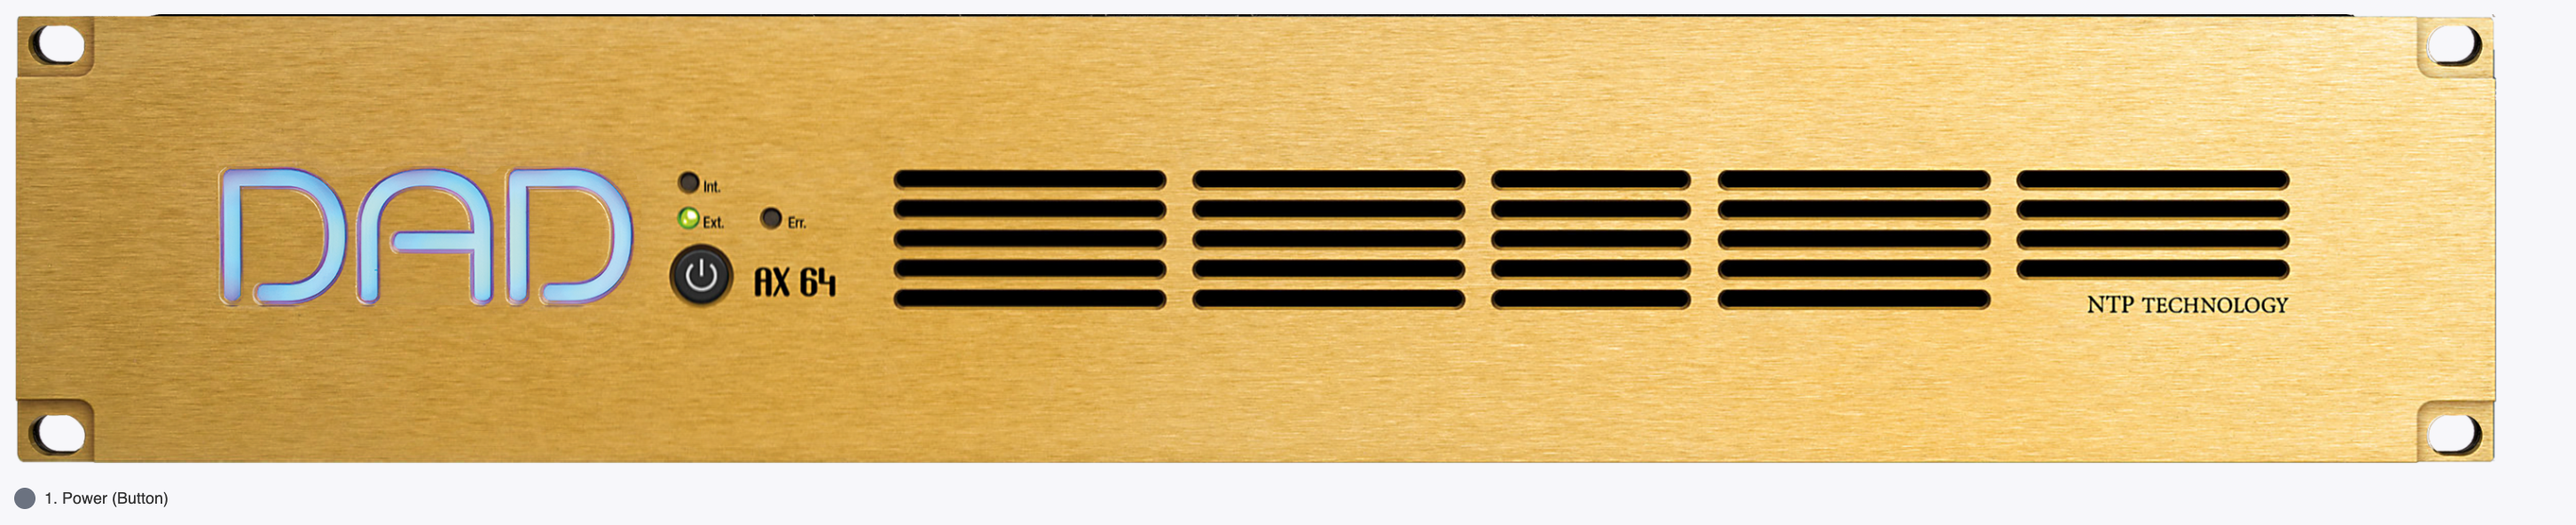
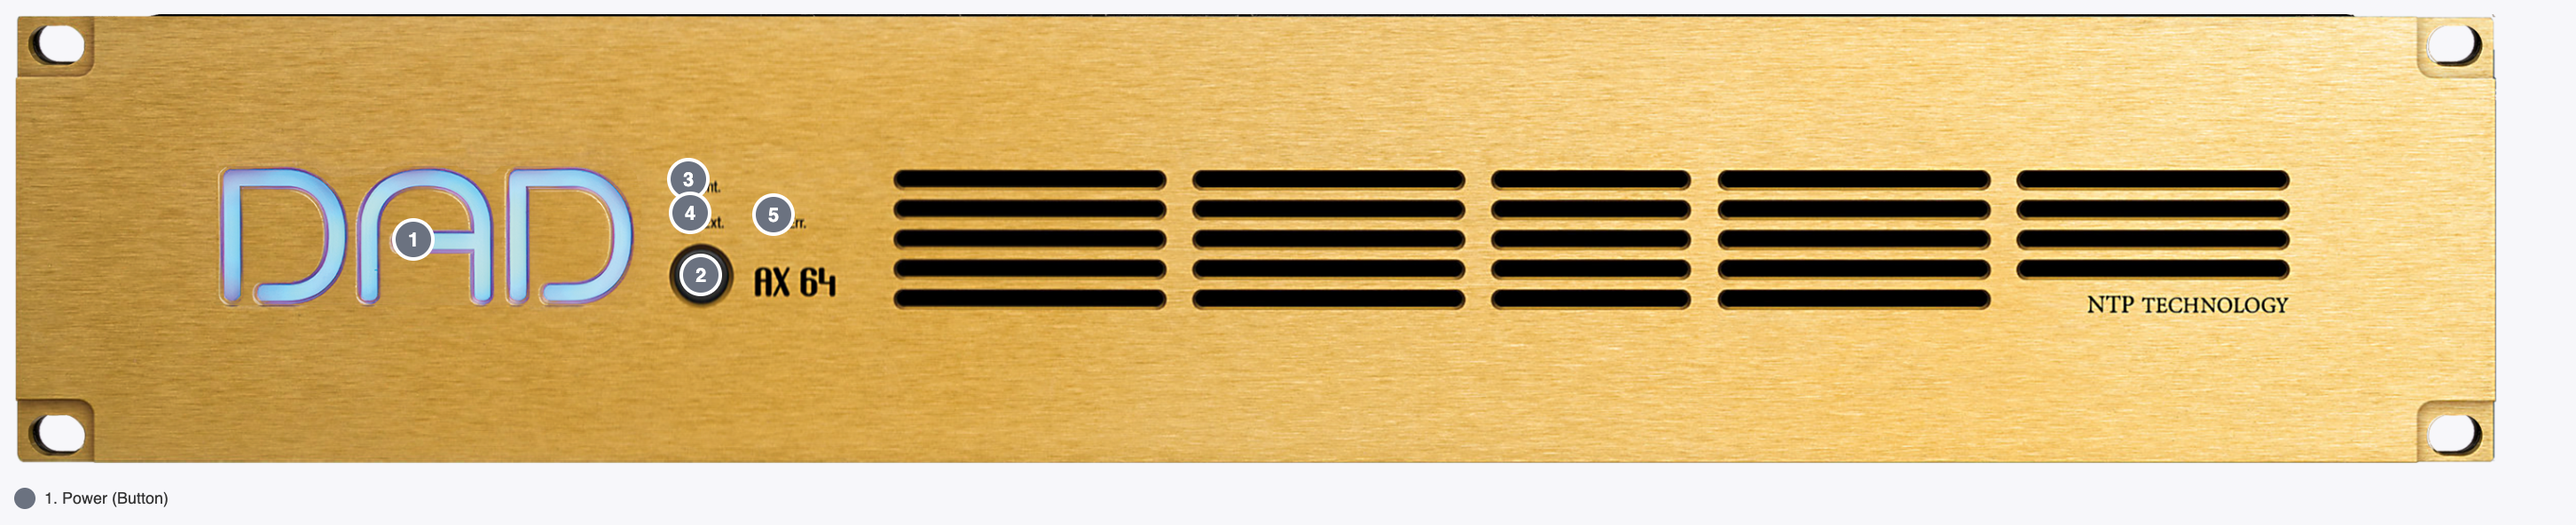
ch02: add missing callout circles to all 4 front panels
Add numbered callout circles for elements previously missing from
the panel diagrams:

- AX Center front (Frame): refs 1 (DAD logo), 3 (Int LED),
  4 (Ext LED), 5 (Err LED), 7 (P48 LED), 8 (Mic LED), 9 (Inst LED)
- AX64 front: refs 1 (DAD logo), 2 (Power btn), 3 (Int LED),
  4 (Ext LED), 5 (Err LED)
- Core 256 front: refs 1 (DAD logo), 2 (Power btn), 3 (Int LED),
  4 (Ext LED), 5 (Err LED)
- MOM face: refs 8 (Status LEDs 1-4), 9 (Stat. LED single)

Positions determined via panel-coords.html coordinate picker tool
(also added). All new circles use grey (#6B7280) matching Dot=— in
ch02 reference tables. Regenerated with screenshot-panels.mjs.

Changed region(s): [[0.2479, 0.3041, 0.3099, 0.4561], [0.2479, 0.4865, 0.2789, 0.5777], [0.155, 0.4257, 0.186, 0.4865]]

diff --git a/dadman-docs/static/img/panel-coords.html b/dadman-docs/static/img/panel-coords.html
@@ -1,0 +1,166 @@
+<!DOCTYPE html>
+<html lang="en">
+<head>
+<meta charset="UTF-8">
+<title>Panel Coordinate Picker</title>
+<style>
+  * { box-sizing: border-box; margin: 0; padding: 0; }
+  body { background: #1a1a2e; color: #e0e0e0; font-family: monospace; font-size: 13px; }
+  h1 { padding: 12px 16px; background: #16213e; font-size: 15px; color: #7eb8f7; border-bottom: 1px solid #2d4a7a; }
+  .tabs { display: flex; background: #16213e; border-bottom: 1px solid #2d4a7a; }
+  .tab { padding: 8px 18px; cursor: pointer; border-right: 1px solid #2d4a7a; color: #aaa; }
+  .tab.active { background: #0f3460; color: #fff; font-weight: bold; }
+  .panel-wrap { overflow-x: auto; padding: 16px; }
+  .panel-label { color: #7eb8f7; margin-bottom: 8px; font-size: 12px; }
+  .img-container { position: relative; display: inline-block; cursor: crosshair; }
+  .img-container img { display: block; image-rendering: pixelated; }
+  .dot { position: absolute; width: 20px; height: 20px; border-radius: 50%;
+    background: rgba(255,80,80,0.85); border: 2px solid #fff;
+    display: flex; align-items: center; justify-content: center;
+    font-size: 10px; font-weight: bold; color: #fff;
+    transform: translate(-50%, -50%); pointer-events: none; }
+  .sidebar { position: fixed; top: 0; right: 0; width: 280px; height: 100vh;
+    background: #16213e; border-left: 1px solid #2d4a7a; padding: 12px;
+    overflow-y: auto; }
+  .sidebar h2 { font-size: 13px; color: #7eb8f7; margin-bottom: 10px; }
+  .coord-list { list-style: none; }
+  .coord-list li { padding: 4px 6px; border-bottom: 1px solid #2d4a7a; font-size: 12px; }
+  .coord-list li span.num { color: #f7b731; margin-right: 6px; }
+  .coord-list li span.pos { color: #26de81; }
+  .coord-list li span.tag { color: #fd9644; }
+  .btn { display: inline-block; padding: 5px 12px; background: #c0392b;
+    color: #fff; border: none; border-radius: 3px; cursor: pointer; margin-top: 8px; font-size: 12px; }
+  .btn.green { background: #27ae60; }
+  #coords-text { width: 100%; background: #0f1923; color: #26de81; border: 1px solid #2d4a7a;
+    padding: 8px; font-size: 11px; margin-top: 8px; resize: vertical; height: 220px; }
+  .hint { font-size: 11px; color: #888; margin-top: 6px; }
+  .panel-section { display: none; }
+  .panel-section.active { display: block; }
+  body { margin-right: 290px; }
+</style>
+</head>
+<body>
+<h1>🎯 Panel Coordinate Picker — click any element to record its CSS position</h1>
+
+<div class="tabs">
+  <div class="tab active" onclick="showPanel('ax64')">AX64</div>
+  <div class="tab" onclick="showPanel('core256')">Core 256</div>
+  <div class="tab" onclick="showPanel('axcenter')">AX Center</div>
+  <div class="tab" onclick="showPanel('mom')">MOM</div>
+</div>
+
+<div class="panel-section active" id="sec-ax64">
+  <div class="panel-wrap">
+    <div class="panel-label">AX64 Front — CSS 1400×254 (image displayed at 50% scale = 1px = 1 CSS px). Click: DAD logo (1), Power btn (2), Int LED (3), Ext LED (4), Err LED (5)</div>
+    <div class="img-container" id="img-ax64" onclick="recordClick(event,'ax64')">
+      <img src="panel-ax64-front.png" style="width:1400px;height:254px;" id="img-ax64-el">
+    </div>
+  </div>
+</div>
+
+<div class="panel-section" id="sec-core256">
+  <div class="panel-wrap">
+    <div class="panel-label">Core 256 Front — CSS 700×143 (image displayed at 50% scale). Click: DAD logo (1), Power btn (2), Int LED (3), Ext LED (4), Err LED (5)</div>
+    <div class="img-container" id="img-core256" onclick="recordClick(event,'core256')">
+      <img src="panel-core256-front.png" style="width:700px;height:143px;" id="img-core256-el">
+    </div>
+  </div>
+</div>
+
+<div class="panel-section" id="sec-axcenter">
+  <div class="panel-wrap">
+    <div class="panel-label">AX Center Front — CSS 1416×166 (image displayed at 50% scale). Click: DAD logo (1), Int LED (3), Ext LED (4), Err LED (5), P48 LED (7), Mic LED (8), Inst LED (9)</div>
+    <div class="img-container" id="img-axcenter" onclick="recordClick(event,'axcenter')">
+      <img src="panel-ax-center-front.png" style="width:1416px;height:166px;" id="img-axcenter-el">
+    </div>
+  </div>
+</div>
+
+<div class="panel-section" id="sec-mom">
+  <div class="panel-wrap">
+    <div class="panel-label">MOM Front — CSS 800×412 (image displayed at 50% scale). Click: Status LEDs 1–4 group center (8), Stat. LED single (9)</div>
+    <div class="img-container" id="img-mom" onclick="recordClick(event,'mom')">
+      <img src="panel-mom.png" style="width:800px;height:412px;" id="img-mom-el">
+    </div>
+  </div>
+</div>
+
+<div class="sidebar">
+  <h2>Recorded Clicks</h2>
+  <ul class="coord-list" id="coord-list"></ul>
+  <button class="btn" onclick="undoLast()">↩ Undo last</button>
+  <button class="btn" onclick="clearAll()">✕ Clear all</button>
+  <button class="btn green" onclick="copyText()">📋 Copy output</button>
+  <p class="hint">Click elements on the panels in order. CSS coords appear here. Copy when done.</p>
+  <textarea id="coords-text" readonly placeholder="Coordinates will appear here..."></textarea>
+</div>
+
+<script>
+const clicks = [];
+
+function showPanel(id) {
+  document.querySelectorAll('.panel-section').forEach(s => s.classList.remove('active'));
+  document.querySelectorAll('.tab').forEach(t => t.classList.remove('active'));
+  document.getElementById('sec-' + id).classList.add('active');
+  event.target.classList.add('active');
+}
+
+function recordClick(e, panelId) {
+  const rect = e.currentTarget.getBoundingClientRect();
+  // The image is displayed at 50% scale (CSS width = image pixel width / 2)
+  // So clientX - rect.left directly gives CSS coordinates
+  const cssx = Math.round(e.clientX - rect.left);
+  const cssy = Math.round(e.clientY - rect.top);
+  const n = clicks.length + 1;
+
+  clicks.push({ panel: panelId, x: cssx, y: cssy, n });
+
+  // Draw dot on image
+  const container = e.currentTarget;
+  const dot = document.createElement('div');
+  dot.className = 'dot';
+  dot.style.left = cssx + 'px';
+  dot.style.top = cssy + 'px';
+  dot.textContent = n;
+  dot.id = 'dot-' + n;
+  container.appendChild(dot);
+
+  updateList();
+}
+
+function updateList() {
+  const list = document.getElementById('coord-list');
+  list.innerHTML = '';
+  const lines = [];
+  clicks.forEach(c => {
+    const li = document.createElement('li');
+    li.innerHTML = `<span class="num">#${c.n}</span><span class="tag">[${c.panel}]</span> <span class="pos">css=(${c.x}, ${c.y})</span>`;
+    list.appendChild(li);
+    lines.push(`#${c.n} [${c.panel}] css=(${c.x}, ${c.y})`);
+  });
+  document.getElementById('coords-text').value = lines.join('\n');
+}
+
+function undoLast() {
+  if (!clicks.length) return;
+  const last = clicks.pop();
+  const dot = document.getElementById('dot-' + last.n);
+  if (dot) dot.remove();
+  updateList();
+}
+
+function clearAll() {
+  clicks.length = 0;
+  document.querySelectorAll('.dot').forEach(d => d.remove());
+  updateList();
+}
+
+function copyText() {
+  const ta = document.getElementById('coords-text');
+  ta.select();
+  document.execCommand('copy');
+  alert('Coordinates copied to clipboard!');
+}
+</script>
+</body>
+</html>
